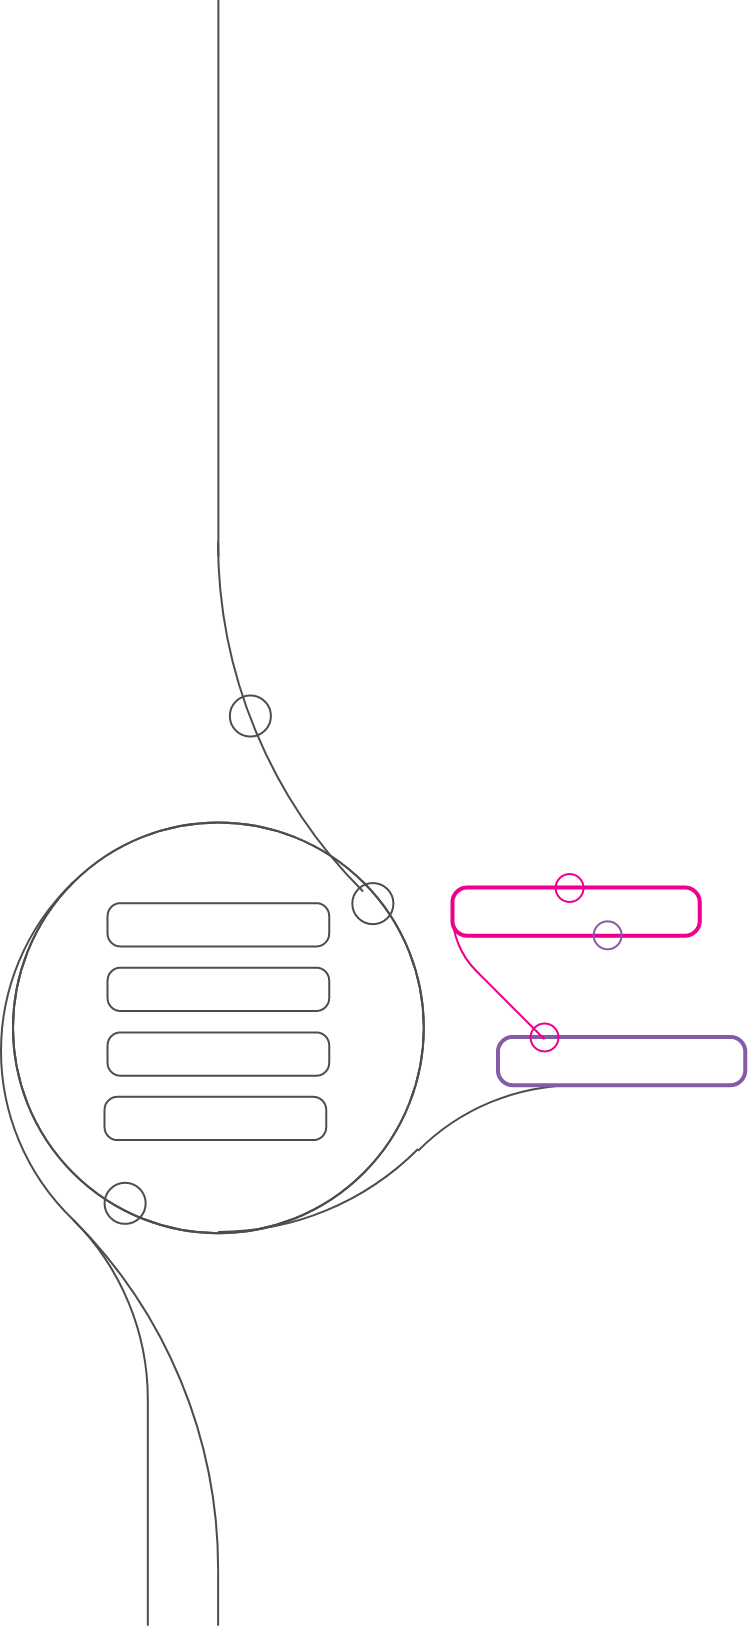
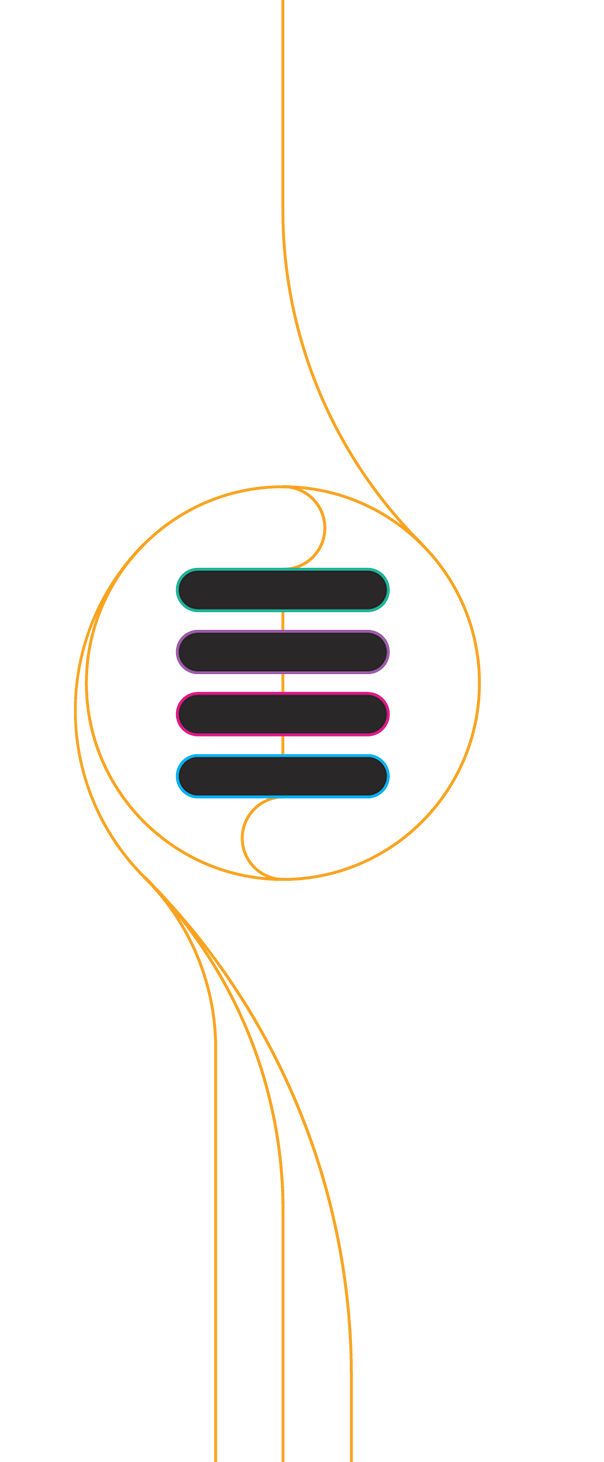
New images, comment out search in nav

diff --git a/site/layouts/partials/nav.html b/site/layouts/partials/nav.html
@@ -11,10 +11,11 @@
 					</button>
 					
 					<div class="collapse navbar-collapse" id="navbarSupportedContent">
-						<form action="/search/" method="get" class="search form-inline">
+						<!-- Navbar - activate once functional -->
+						<!-- <form action="/search/" method="get" class="search form-inline">
 							<input id="search-box" name="q" placeholder="Search Chef" type="text" class="st-default-search-input" autocomplete="off" autocorrect="off" autocapitalize="off">
 							<button class="btn" id="search-icon" type="submit"><i class="fas fa-search"></i></button>
-						</form>
+						</form> -->
 						<ul class="navbar-nav">
 							<li class="nav-item dropdown">
 								<a class="nav-link dropdown-toggle" href="#" id="navbarDropdown" role="button" data-toggle="dropdown" aria-haspopup="true" aria-expanded="false">

diff --git a/site/layouts/partials/home/home-products.html b/site/layouts/partials/home/home-products.html
@@ -1,7 +1,7 @@
 <div class="container-fluid">
 	<div class="row product-grid-main">
 	   <div class="col-lg-4 offset-lg-1 col-sm-12 flex-center">
-		   <img src="/img/prodviz_v2.png" alt="Product grid visualization" id="prodgrid-img">
+		   <img src="/img/prodviz.png" alt="Product grid visualization" id="prodgrid-img">
 	   </div>
 	   <div class="col-lg-6 col-sm-12 product-grid-copy">
 			<div class="product-grid-copy-wrapper">
@@ -38,9 +38,6 @@
 						<a class="btn btn-primary" href="{{.Params.products.observability.url}}">Learn More</a>
 					 </div>
 				 </div>
-				
-		 
-				
 		   </div>
 	   </div>
 	</div>
